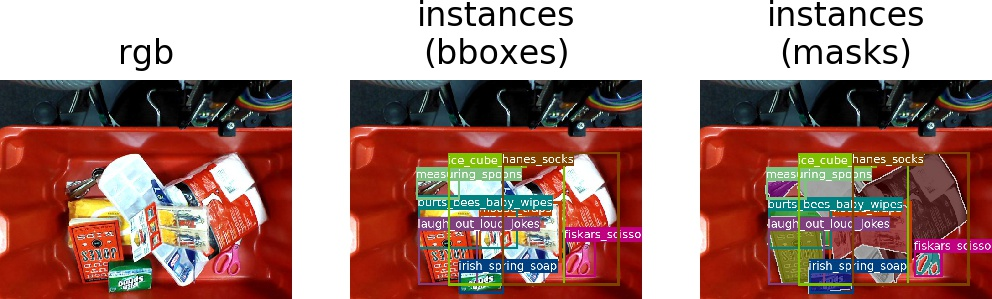
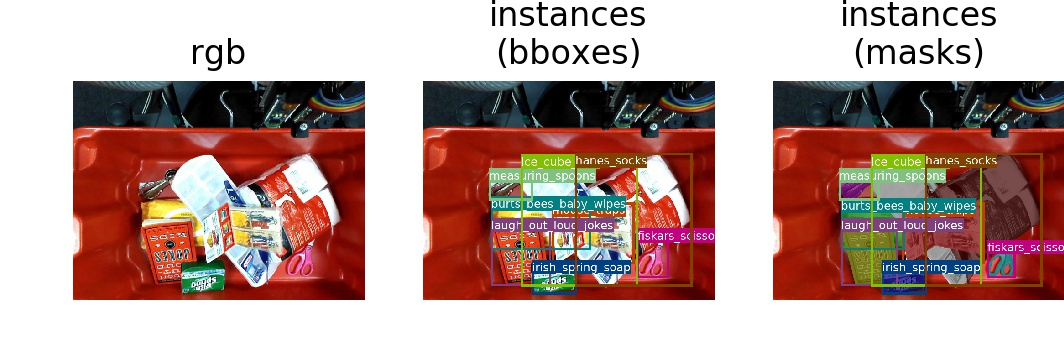
Add aabb1 and aabb2 option to text_in_rectangle

diff --git a/imgviz/draw.py b/imgviz/draw.py
@@ -251,7 +251,16 @@ def text(src, yx, text, size, color=(0, 0, 0)):
     return np.asarray(dst)
 
 
-def text_in_rectangle(src, loc, text, size, background, color=None):
+def text_in_rectangle(
+    src,
+    loc,
+    text,
+    size,
+    background,
+    color=None,
+    aabb1=None,
+    aabb2=None,
+):
     '''Draw text in a rectangle.
 
     Parameters
@@ -270,31 +279,37 @@ def text_in_rectangle(src, loc, text, size, background, color=None):
         Text RGB color in uint8.
         If None, the color is determined by background color.
         (default: None)
+    aabb1, aabb2: (2,) array-like
+        Coordinate of the rectangle (y_min, x_min), (y_max, x_max).
+        Default is (0, 0), (height, width).
 
     Returns
     -------
     dst: numpy.ndarray
         Output image.
     '''
-
-    tsize = text_size(text, size)
-
-    height, width = src.shape[:2]
-    if loc == 'lt':
-        yx = (0, 0)
-    elif loc == 'rt':
-        yx = (0, (width - 1) - tsize[1] - 1)
-    elif loc == 'lb':
-        yx = ((height - 1) - tsize[0] - 1, 0)
-    elif loc == 'rb':
-        yx = ((height - 1) - tsize[0] - 1, (width - 1) - tsize[1] - 1)
-    else:
-        raise ValueError('unsupported loc: {}'.format(loc))
-
     if color is None:
         color = color_module.get_fg_color(background)
 
-    dst = rectangle(
+    height, width = src.shape[:2]
+
+    y1, x1 = (0, 0) if aabb1 is None else aabb1
+    y2, x2 = (height - 1, width - 1) if aabb2 is None else aabb2
+
+    tsize = text_size(text, size)
+
+    if loc == 'lt':
+        yx = (y1, x1)
+    elif loc == 'rt':
+        yx = (y1, x2 - tsize[1] - 1)
+    elif loc == 'lb':
+        yx = (y2 - tsize[0] - 1, 0)
+    elif loc == 'rb':
+        yx = (y2 - tsize[0] - 1, x2 - tsize[1] - 1)
+    else:
+        raise ValueError('unsupported loc: {}'.format(loc))
+
+    dst = globals()['rectangle'](
         src=src,
         aabb1=(yx[0], yx[1]),
         aabb2=(yx[0] + tsize[0] + 1, yx[1] + tsize[1] + 1),

diff --git a/imgviz/instances.py b/imgviz/instances.py
@@ -94,19 +94,13 @@ def instances2rgb(
         )
 
         if caption is not None:
-            height, width = draw_module.text_size(text=caption, size=font_size)
-            dst = draw_module.rectangle(
+            dst = draw_module.text_in_rectangle(
                 dst,
-                aabb1,
-                aabb1 + [height, width],
-                outline=color_cls,
-                fill=color_cls,
-            )
-            dst = draw_module.text(
-                dst,
-                (y1, x1),
+                loc='lt',
                 text=caption,
-                color=color_module.get_fg_color(color_cls),
                 size=font_size,
+                background=color_cls,
+                aabb1=aabb1,
+                aabb2=aabb2,
             )
     return dst
